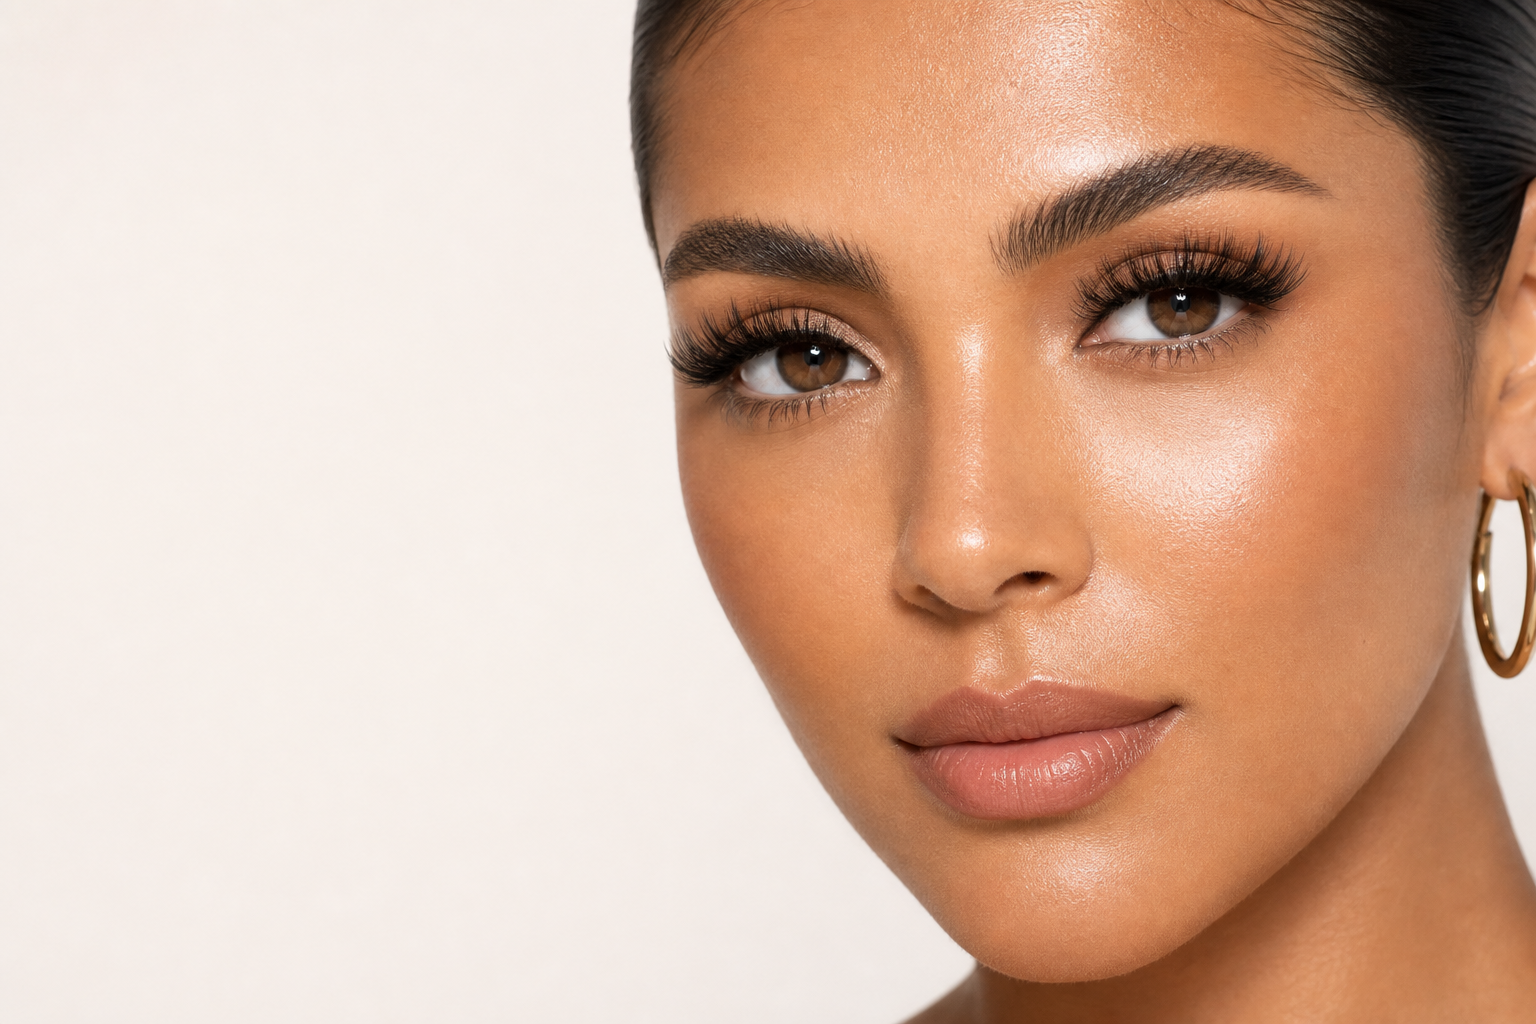
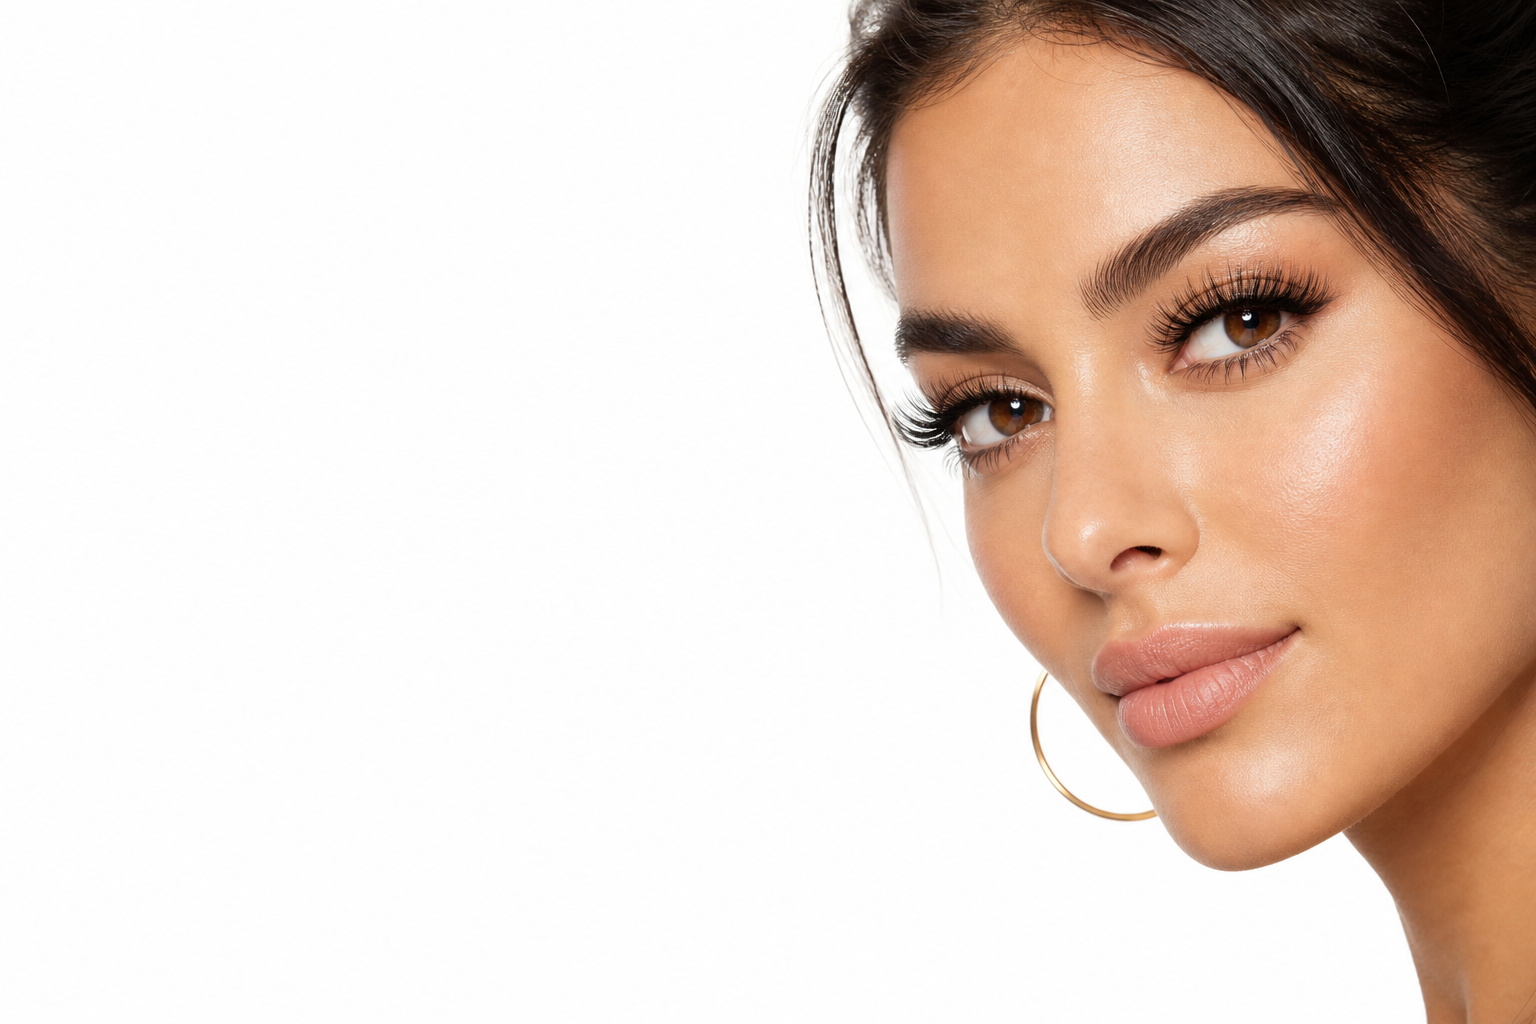
Oprav bílé pozadí za modelkou v luxury banneru.

diff --git a/public/laleia/index.html b/public/laleia/index.html
@@ -53,9 +53,10 @@ a{color:inherit;text-decoration:none}
 .collection-card img{width:100%;aspect-ratio:3/4;object-fit:cover;border-radius:16px;display:block}
 
 .luxury{position:relative;min-height:clamp(360px,42vw,480px);background:#fff;overflow:hidden}
-.luxury-stage{position:relative;width:100%;height:clamp(360px,42vw,480px)}
+.luxury-stage{position:relative;width:100%;height:clamp(360px,42vw,480px);background:#fff}
+.luxury-stage::before{content:"";position:absolute;right:0;top:0;width:58%;height:100%;background:#fff;z-index:0}
 .luxury-flower{position:absolute;left:0;top:0;width:38%;height:100%;object-fit:cover;object-position:center;filter:grayscale(1) contrast(1.12) brightness(1.05);z-index:1}
-.luxury-model{position:absolute;right:0;top:0;width:54%;height:100%;object-fit:cover;object-position:62% 18%;z-index:1}
+.luxury-model{position:absolute;right:0;top:0;width:50%;height:100%;object-fit:cover;object-position:72% 20%;z-index:1;background:#fff}
 .luxury-center{position:absolute;left:50%;top:50%;transform:translate(-50%,-50%);width:clamp(180px,26vw,320px);aspect-ratio:1;object-fit:cover;object-position:center 28%;z-index:3;box-shadow:0 8px 32px rgba(0,0,0,.18)}
 .luxury-overlay{position:absolute;inset:0;display:flex;flex-direction:column;align-items:center;justify-content:center;text-align:center;color:#fff;pointer-events:none;z-index:4;text-shadow:0 2px 24px rgba(0,0,0,.45),0 0 40px rgba(0,0,0,.15)}
 .luxury-overlay small{font-family:'Jost',sans-serif;letter-spacing:.42em;text-transform:uppercase;font-size:clamp(9px,1vw,11px);margin-bottom:10px;font-weight:300}
